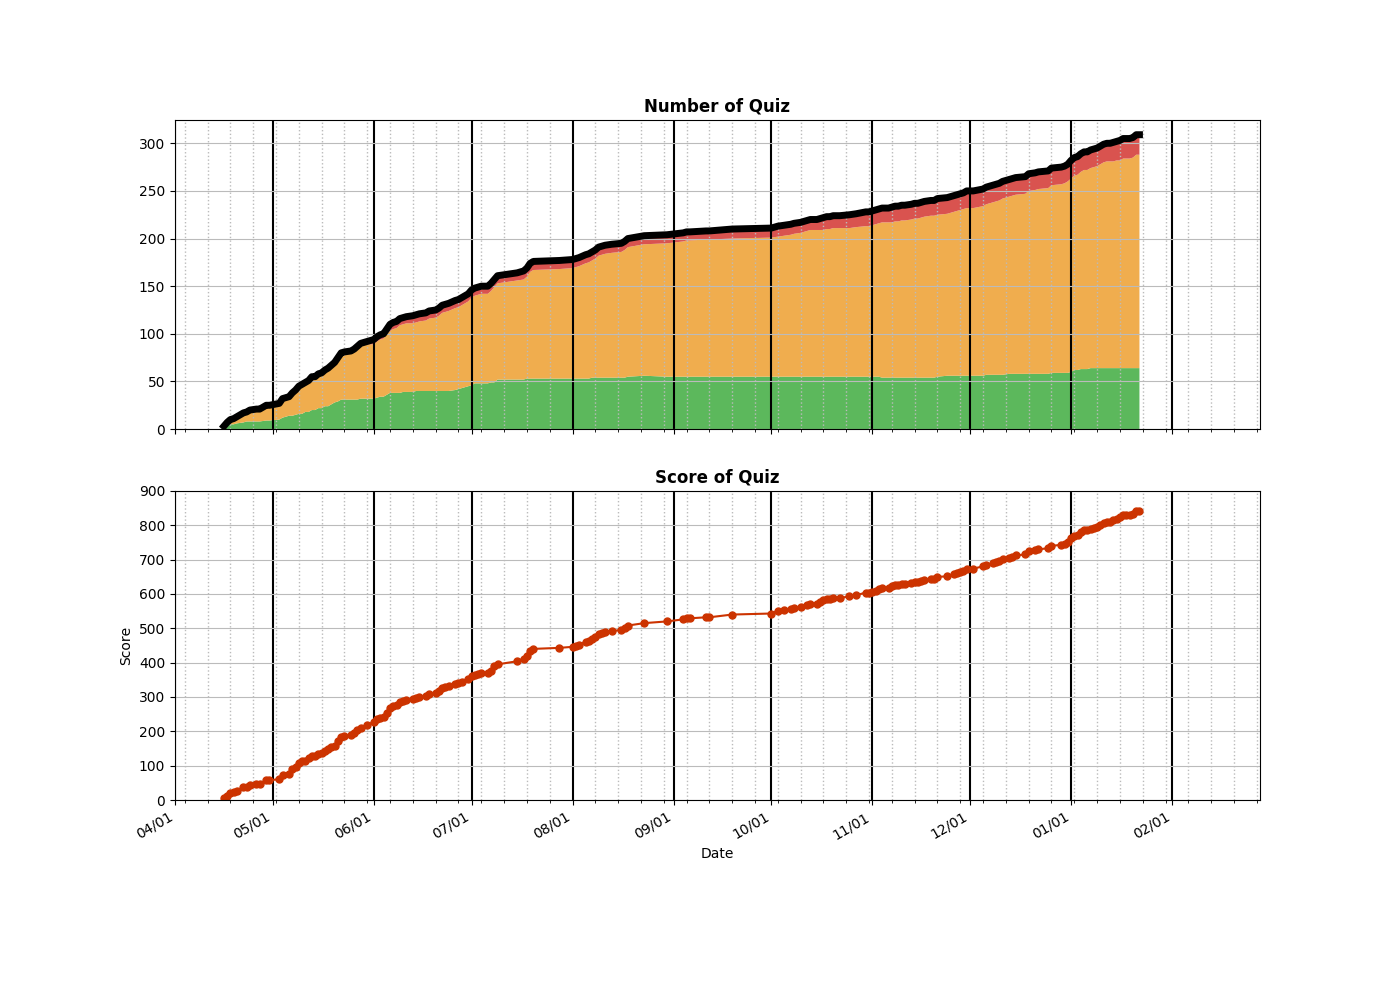
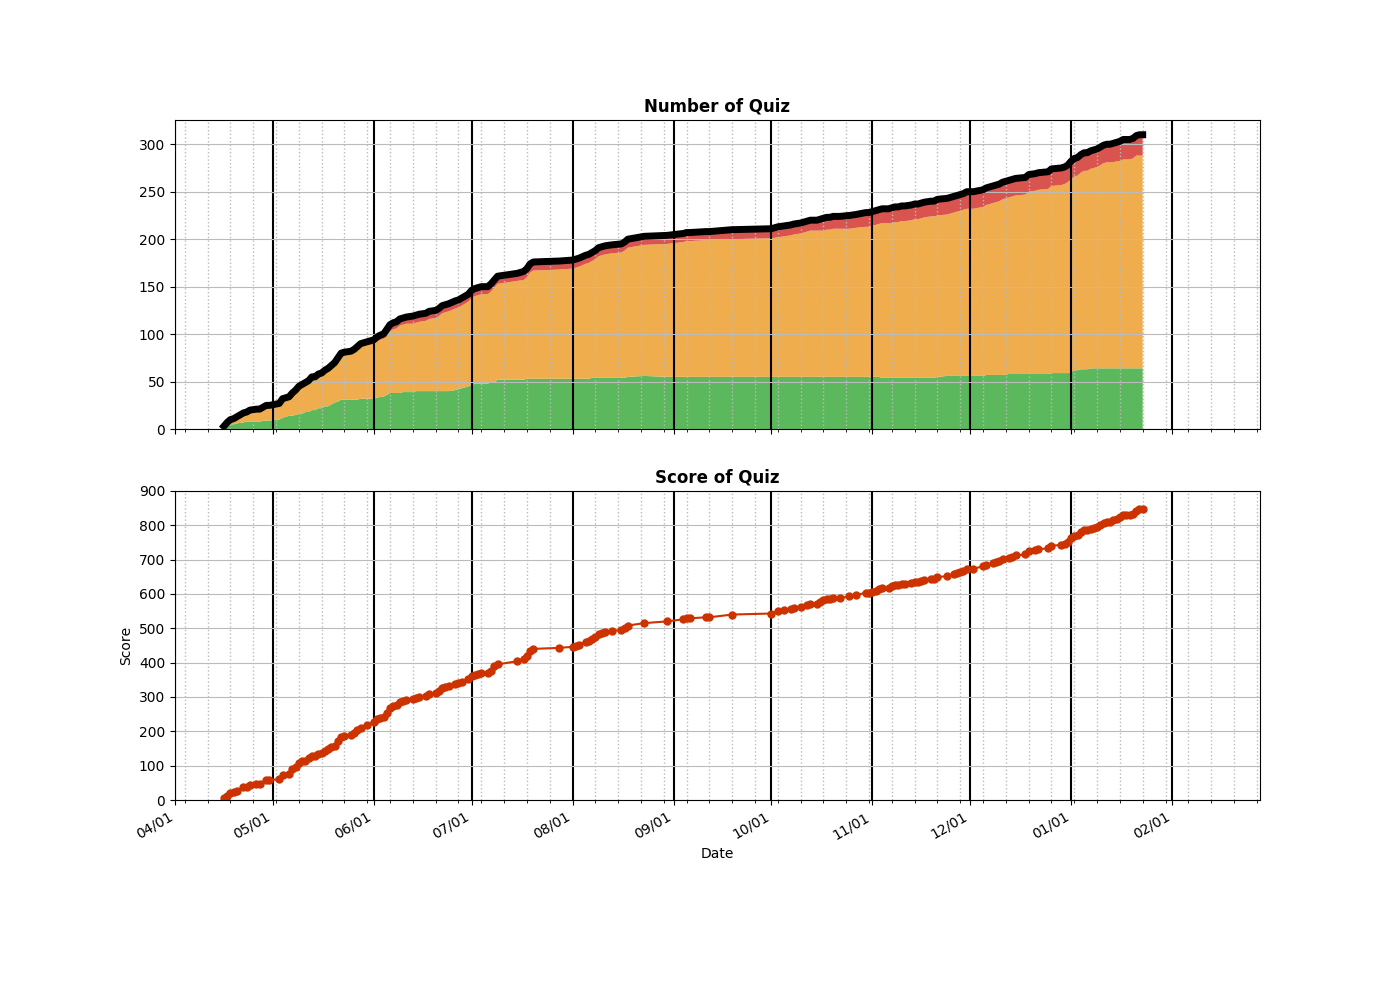
Added __0862__Shortest Subarray with Sum at Least K.py

diff --git a/algo/Monotonic/__0862__Shortest Subarray with Sum at Least K.py b/algo/Monotonic/__0862__Shortest Subarray with Sum at Least K.py
@@ -1,0 +1,69 @@
+class Solution:
+    
+    # 2022/01/22
+    # Prefix sum + Monotonic Stack [O(n): 19%]
+    def shortestSubarray(self, nums: List[int], k: int) -> int:
+        print("Code3")
+        if not nums:
+            return -1
+        
+        #Calculate preSum: O(n)
+        #preSum = [0]
+        #for v in nums:
+        #    preSum.append(preSum[-1] + v)
+        
+        #Calculate presum + update monotonic queue together: O(n)
+        preSum = 0
+        res = inf
+        deq = collections.deque([(-1, 0)]) #idx, preSum
+        for i, v in enumerate(nums):
+            preSum += v
+            if v >= 0:      
+                while deq and preSum - deq[0][1] >= k:
+                    res = min(res, i - deq[0][0])
+                    deq.popleft()  
+            else:
+                while deq and deq[-1][1] >= preSum:
+                    deq.pop()
+            deq.append([i, preSum])
+        return res if res != inf else -1
+    
+    # ===========================================================
+
+    # 2022/01/22
+    # Traverse of prefix sum [O(n2): TLE]
+    def shortestSubarray2(self, nums: List[int], k: int) -> int:
+        print("Code2")
+        if not nums:
+            return -1
+        preSum = [0]
+        for v in nums:
+            preSum.append(preSum[-1] + v)
+        #print(preSum)
+        
+        res = inf
+        for i in range(len(preSum)):
+            for j in range(i+1, len(preSum)):
+                curSum = preSum[j] - preSum[i]
+                if curSum >= k:
+                    res = min(res, j - i)
+        return res if res != inf else -1
+                    
+    # ===========================================================
+        
+    # Sliding-Window (can only handle positive number) [Incorrect]
+    def shortestSubarray1(self, nums: List[int], k: int) -> int:
+        print("Code1")
+        if not nums:
+            return -1
+        
+        i = 0
+        curSum = 0
+        res = inf
+        for j, v in enumerate(nums):
+            curSum += v
+            while curSum >= k:
+                res = min(res, j - i + 1)
+                curSum -= nums[i]
+                i += 1
+        return res if res != inf else -1

diff --git a/README.md b/README.md
@@ -213,6 +213,7 @@ algo
 │   ├── __0496__Next Greater Element I.py
 │   ├── __0503__Next Greater Element II.py
 │   ├── __0739__Daily Temperatures.py
+│   ├── __0862__Shortest Subarray with Sum at Least K.py
 │   ├── __0975__Odd Even Jump.py
 │   ├── __1475__Final Prices With a Special Discount in a Shop.py
 │   └── __1762__Buildings With an Ocean View.py
@@ -348,7 +349,7 @@ algo
     ├── Countries.py
     └── SwitchingArray.py
 
-26 directories, 321 files
+26 directories, 322 files
 
 =====================================
 ============= Local Repo ============
@@ -598,6 +599,7 @@ __0787__Cheapest Flights Within K Stops.py
 __0797__All Paths From Source to Target.py
 __0811__Subdomain Visit Count.py
 __0841__Keys and Rooms.py
+__0862__Shortest Subarray with Sum at Least K.py
 __0863__All Nodes Distance K in Binary Tree.py
 __0875__Koko Eating Bananas.py
 __0905__Sort Array By Parity.py
@@ -663,7 +665,7 @@ __1905__Count Sub Islands.py
 __1937__Maximum Number of Points with Cost.py
 __2093__Minimum Cost to Reach City With Discounts.py
 =====================================
-Num of Python Practice:  309
+Num of Python Practice:  310
 
 
 =====================================
@@ -914,6 +916,7 @@ Num of Python Practice:  309
  0797 All Paths From Source to Target
  0811 Subdomain Visit Count
  0841 Keys and Rooms
+ 0862 Shortest Subarray with Sum at Least K
  0863 All Nodes Distance K in Binary Tree
  0875 Koko Eating Bananas
  0905 Sort Array By Parity
@@ -979,11 +982,11 @@ Num of Python Practice:  309
  1937 Maximum Number of Points with Cost
  2093 Minimum Cost to Reach City With Discounts
 =====================================
-Solved / Total (Easy)  :   64 /  541
-Solved / Total (Medium):  224 / 1144
-Solved / Total (Hard)  :   21 /  458
-Solved / Total (All)   :  309 / 2143
-Total Score            :  841
+Solved / Total (Easy)  :   64 /  542
+Solved / Total (Medium):  224 / 1146
+Solved / Total (Hard)  :   22 /  459
+Solved / Total (All)   :  310 / 2147
+Total Score            :  846
 =====================================
 
 ```
